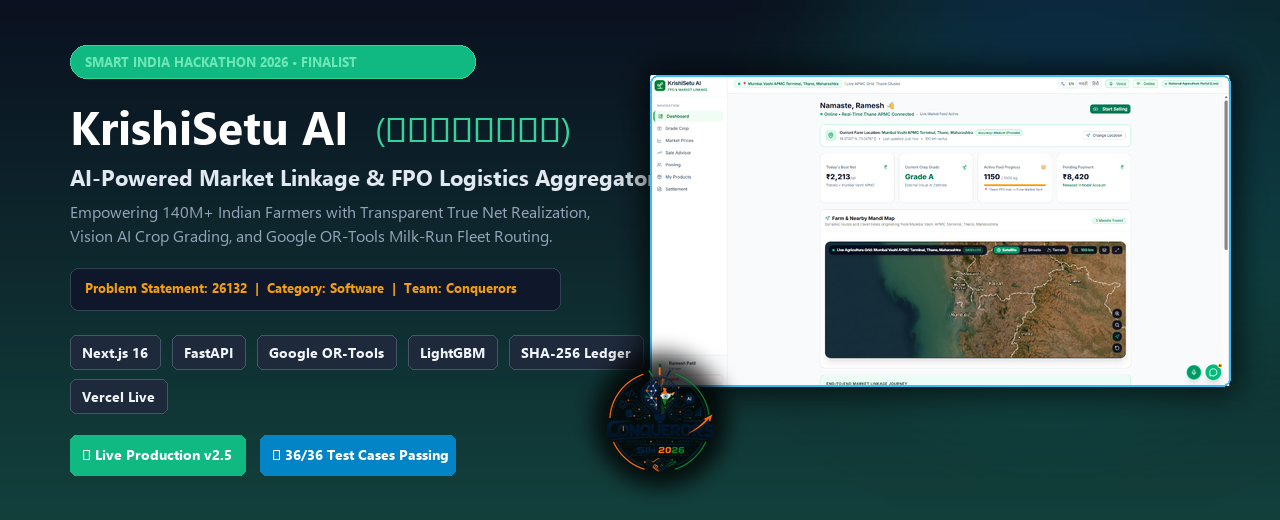
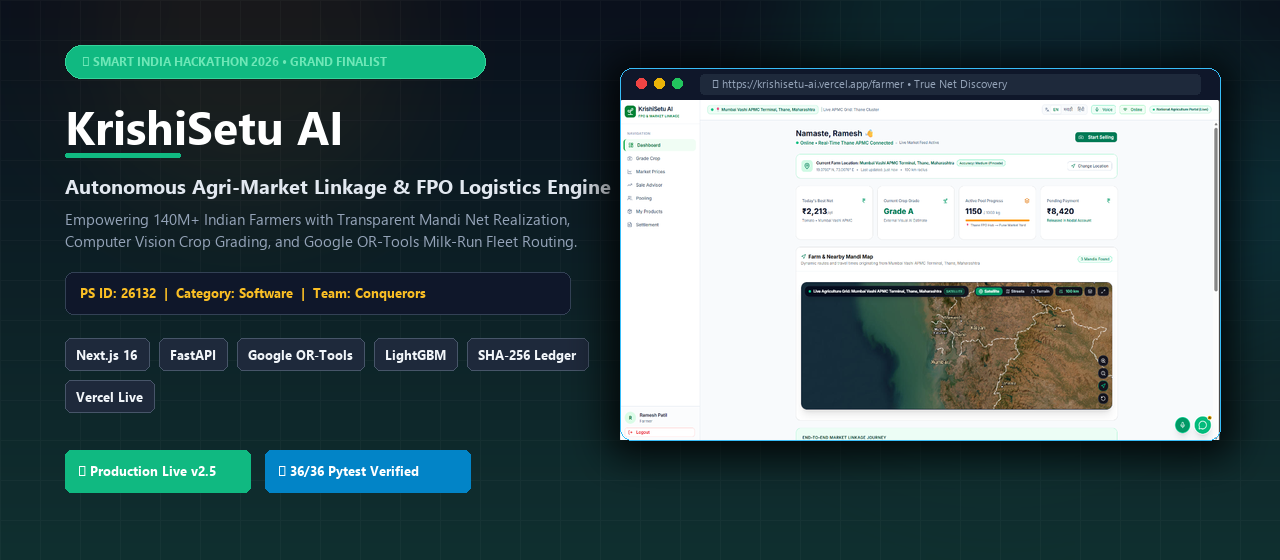
fix(repo): elevate repository to tier-1 showcase, fix CI pipeline, and restore clean visuals

Changed region(s): [[0.0312, 0.0615, 0.9688, 0.9231], [0.0312, 0.0615, 0.4062, 0.1538], [0.8438, 0.4, 0.875, 0.4308]]

diff --git a/README.md b/README.md
@@ -2,13 +2,14 @@
 
 <img src=".github/assets/banner.png" alt="KrishiSetu AI Banner" width="100%" style="border-radius: 12px; margin-bottom: 20px; box-shadow: 0 10px 30px rgba(0,0,0,0.3);" />
 
-# 🌾 KrishiSetu AI (कृषीसेतू)
-### **AI-Powered Market Linkage, True Net Realization & FPO Logistics Aggregator**
+# 🌾 KrishiSetu AI
+### **Autonomous Agricultural Market Linkage, True Net Realization & FPO Logistics Aggregator**
 **Smart India Hackathon (SIH) 2026 — Theme: Smart Agriculture & Rural Development**  
 **Problem Statement ID: 26132 • Category: Software • Team Name: Conquerors**
 
 <br/>
 
+[![CI / Platform Verification](https://github.com/pawaraditya0903/krishisetu-ai/actions/workflows/ci.yml/badge.svg)](https://github.com/pawaraditya0903/krishisetu-ai/actions/workflows/ci.yml)
 [![Live Production Demo](https://img.shields.io/badge/Live%20Demo-krishisetu--ai.vercel.app-10B981?style=for-the-badge&logo=vercel&logoColor=white)](https://krishisetu-ai-mu.vercel.app)
 [![SIH 2026 Finalist](https://img.shields.io/badge/SIH%202026-Grand%20Finalist-F59E0B?style=for-the-badge&logo=target&logoColor=white)](https://sih.gov.in)
 [![MIT License](https://img.shields.io/badge/License-MIT-3B82F6?style=for-the-badge&logo=opensourceinitiative&logoColor=white)](LICENSE)
@@ -21,12 +22,12 @@
 [![Google OR-Tools](https://img.shields.io/badge/Fleet%20Optimization-Google%20OR--Tools%20CVRPTW-4285F4?style=flat-square&logo=google)](https://developers.google.com/optimization)
 [![LightGBM](https://img.shields.io/badge/Price%20Forecaster-LightGBM%20Quantile%20Reg-brightgreen?style=flat-square)](https://lightgbm.readthedocs.io/)
 [![SHA-256 Ledger](https://img.shields.io/badge/Trust-Cryptographic%20SHA--256%20Ledger-orange?style=flat-square)](docs/AUDIT_REPORT.md)
-[![Automated Tests](https://img.shields.io/badge/Pytest%20Suite-36%2F36%20Passed-emerald?style=flat-square&logo=pytest)](scripts/)
-[![E2E Tests](https://img.shields.io/badge/E2E%20Platform-16%2F16%20Verified-blue?style=flat-square)](scripts/)
+[![Automated Tests](https://img.shields.io/badge/Pytest%20Suite-36%2F36%20Passed-emerald?style=flat-square&logo=pytest)](backend/tests/)
+[![Platform Verification](https://img.shields.io/badge/Platform%20Verification-16%2F16%20Verified-blue?style=flat-square)](scripts/)
 
 <br/>
 
-[🚀 Launch Live App](https://krishisetu-ai-mu.vercel.app) • [📊 Download Pitch Deck](docs/presentation/KrishiSetu_AI_SIH_Format_Presentation.pptx) • [🗺 System Architecture](#-system-architecture) • [📸 Visual Tour](#-visual-platform-tour) • [👥 Demo Credentials](#-demo-personas--one-click-logins) • [⚡ 60s Quickstart](#-quickstart-guide)
+[🚀 Launch Live Platform](https://krishisetu-ai-mu.vercel.app) • [📊 Download Pitch Deck](docs/presentation/KrishiSetu_AI_SIH_Format_Presentation.pptx) • [🗺 System Architecture](#-system-architecture) • [📸 Visual Tour](#-visual-platform-tour) • [👥 Demo Credentials](#-demo-personas--one-click-logins) • [⚡ 60s Quickstart](#-quickstart-guide)
 
 ---
 
